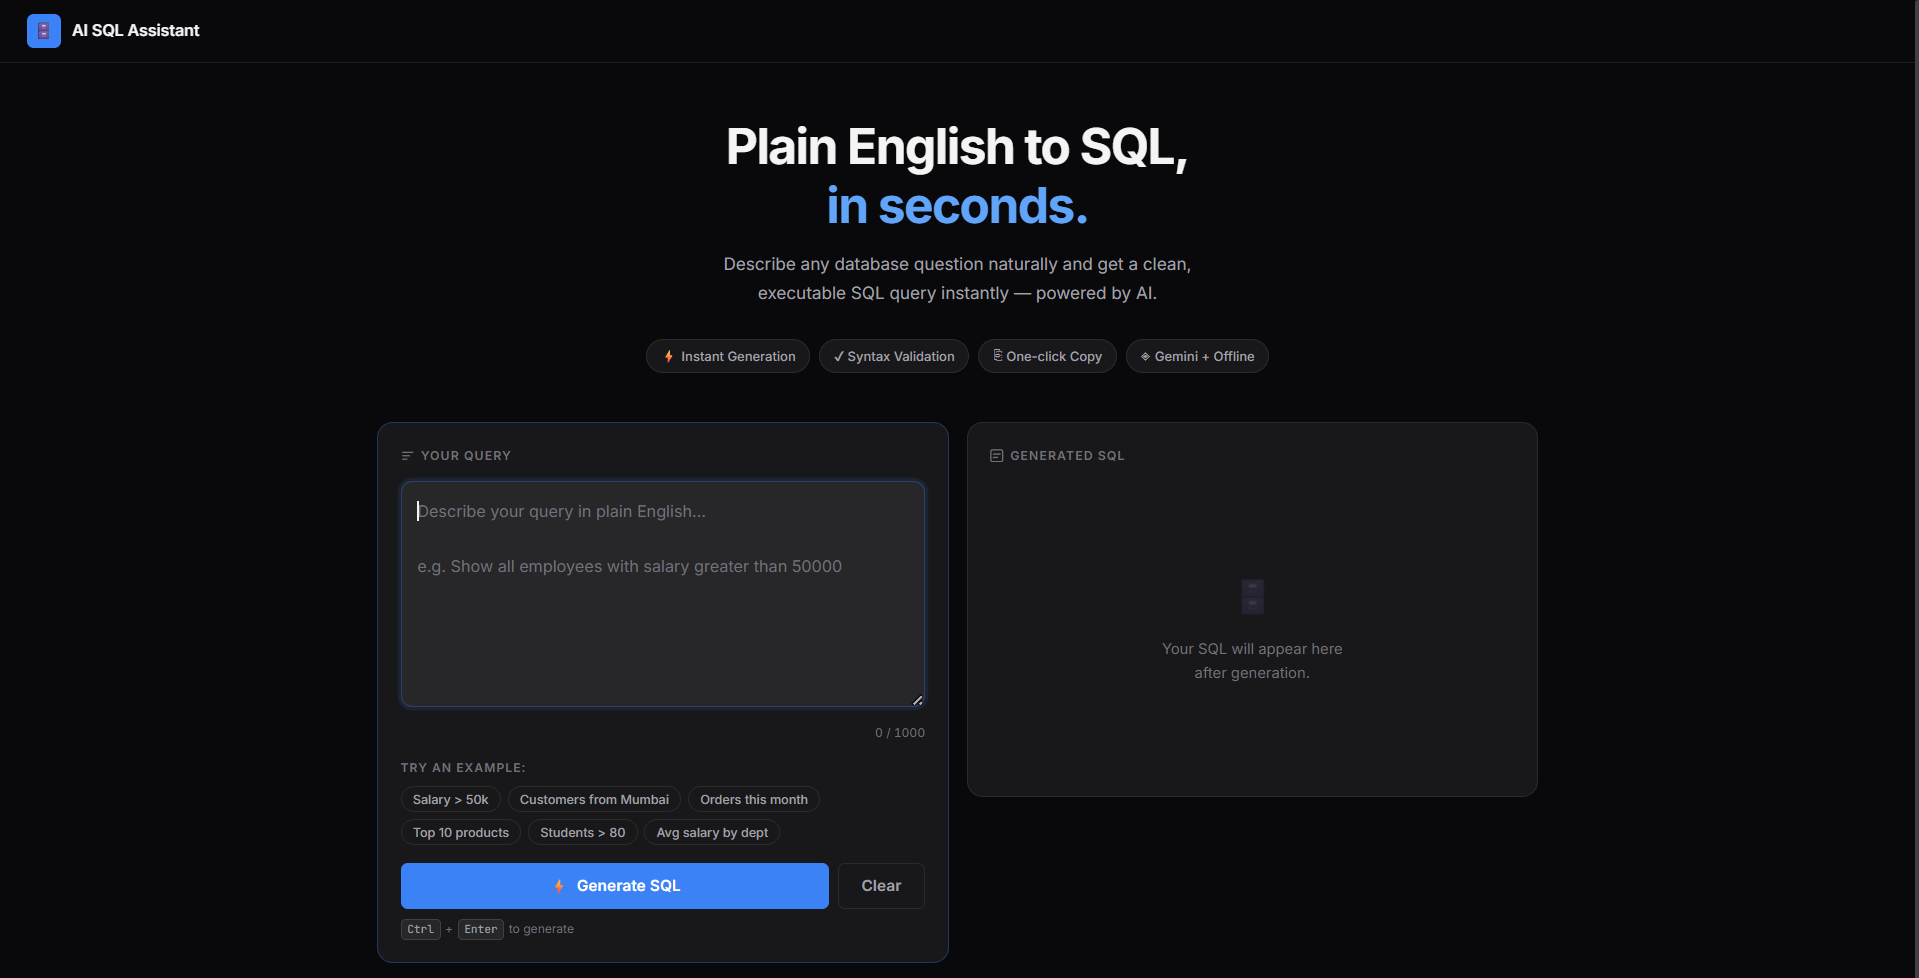
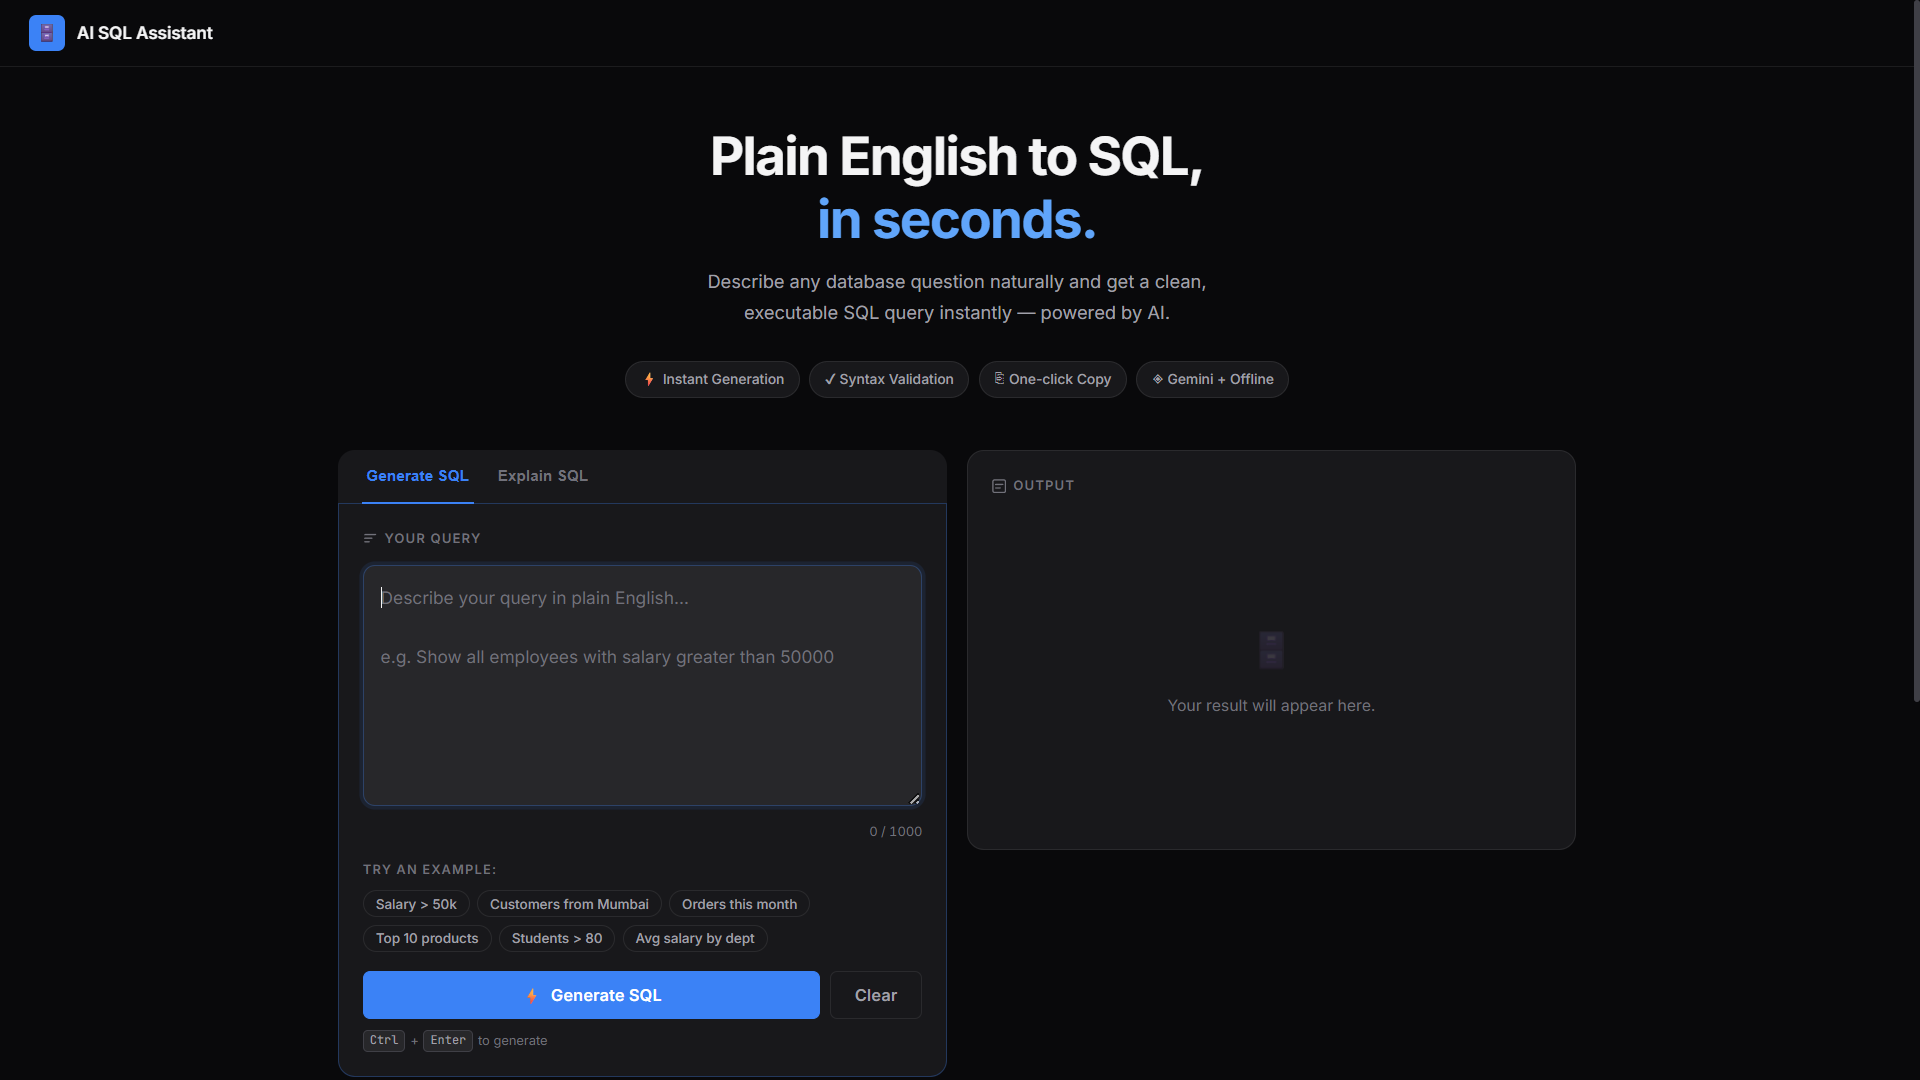
feat: migrate to LiteLLM and improve explain history tracking

diff --git a/static/script.js b/static/script.js
@@ -374,7 +374,12 @@ function HistorySection({ history, onRestore }) {
                   onClick=${() => onRestore(entry)}
                   onKeyDown=${(e) => { if (e.key === 'Enter') onRestore(entry); }}
                 >
-                  <span class="history-query" title=${entry.query}>${entry.query}</span>
+                  <span class="history-query" title=${entry.query}>
+                    <span aria-hidden="true" style=${{ marginRight: '6px', opacity: 0.7 }}>
+                      ${(!entry.type || entry.type === 'generate') ? '⚡' : '💡'}
+                    </span>
+                    ${entry.query}
+                  </span>
                   <span class="history-time">${entry.time}</span>
                 </div>
               `)}
@@ -409,8 +414,10 @@ function Workspace({ onAddHistory, restoredEntry }) {
   // Apply a restored history entry
   useEffect(() => {
     if (!restoredEntry) return;
+    setActiveTab(restoredEntry.type || 'generate');
     setQuery(restoredEntry.query);
     setSql(restoredEntry.sql);
+    setExplanation(restoredEntry.explanation || '');
     setMethod(restoredEntry.method || '');
     setError('');
     if (textareaRef.current) {
@@ -448,7 +455,7 @@ function Workspace({ onAddHistory, restoredEntry }) {
 
         setSql(newSql);
         setMethod(newMethod);
-        onAddHistory({ query: q, sql: newSql, method: newMethod });
+        onAddHistory({ query: q, sql: newSql, method: newMethod, type: activeTab });
         showToast('SQL generated successfully', 'success');
       } else {
         const res = await fetch('/explain', {
@@ -464,6 +471,7 @@ function Workspace({ onAddHistory, restoredEntry }) {
 
         setSql(q);
         setExplanation(data.explanation);
+        onAddHistory({ query: q, sql: q, method: data.method || 'llm', explanation: data.explanation, type: activeTab });
         showToast('SQL explained successfully', 'success');
       }
     } catch (err) {
@@ -660,12 +668,14 @@ function App() {
 
   const [restoredEntry, setRestoredEntry] = useState(null);
 
-  const addHistory = useCallback(({ query, sql, method }) => {
+  const addHistory = useCallback(({ query, sql, method, explanation, type }) => {
     setHistory(prev => {
       const entry = {
         query,
         sql,
         method,
+        explanation: explanation || '',
+        type: type || 'generate',
         time: new Date().toLocaleTimeString([], { hour: '2-digit', minute: '2-digit' }),
       };
       const next = [entry, ...prev].slice(0, MAX_HISTORY);

diff --git a/services/sql_generator.py b/services/sql_generator.py
@@ -20,19 +20,20 @@ Output is post-processed by SQLOutputTuner which:
 import os
 import re
 import logging
-from google import genai
-from google.genai import types
+import litellm
+
+litellm.suppress_debug_info = True
 
 logger = logging.getLogger(__name__)
 
 
 # ---------------------------------------------------------------------------
-# Gemini configuration (all tunable via environment variables)
+# LLM configuration (all tunable via environment variables)
 # ---------------------------------------------------------------------------
 
-GEMINI_MODEL       = os.getenv("GEMINI_MODEL",       "gemini-3.1-flash-lite")
-GEMINI_TEMPERATURE = float(os.getenv("GEMINI_TEMPERATURE", "0.1"))
-GEMINI_MAX_TOKENS  = int(os.getenv("GEMINI_MAX_TOKENS",    "768"))
+LLM_MODEL       = os.getenv("LLM_MODEL",       "gemini/gemini-3.1-flash-lite")
+LLM_TEMPERATURE = float(os.getenv("LLM_TEMPERATURE", "0.1"))
+LLM_MAX_TOKENS  = int(os.getenv("LLM_MAX_TOKENS",    "768"))
 
 
 # ---------------------------------------------------------------------------
@@ -219,20 +220,11 @@ _tuner = SQLOutputTuner()
 
 
 # ---------------------------------------------------------------------------
-# Gemini helper
+# LLM helper
 # ---------------------------------------------------------------------------
 
-_gemini_configured = False
-_gemini_client = None
-
-def _ensure_gemini_configured():
-    global _gemini_configured, _gemini_client
-    if not _gemini_configured:
-        api_key = os.getenv("GEMINI_API_KEY", "")
-        if not api_key:
-            raise ValueError("GEMINI_API_KEY environment variable is not set.")
-        _gemini_client = genai.Client(api_key=api_key)
-        _gemini_configured = True
+def _has_api_key():
+    return any(os.getenv(k) for k in ["GEMINI_API_KEY", "OPENAI_API_KEY", "ANTHROPIC_API_KEY"])
 
 
 _SYSTEM_PROMPT = (
@@ -261,24 +253,24 @@ _EXPLAIN_PROMPT = (
 )
 
 
-def _generate_with_gemini(natural_query: str) -> str:
+def _generate_with_llm(natural_query: str) -> str:
     """
-    Call the Gemini API to convert a natural-language query
+    Call the configured LLM API to convert a natural-language query
     into a well-formatted SQL statement.
     """
-    _ensure_gemini_configured()
+    messages = [
+        {"role": "system", "content": _SYSTEM_PROMPT},
+        {"role": "user", "content": natural_query}
+    ]
     
-    response = _gemini_client.models.generate_content(
-        model=GEMINI_MODEL,
-        contents=natural_query,
-        config=types.GenerateContentConfig(
-            system_instruction=_SYSTEM_PROMPT,
-            temperature=GEMINI_TEMPERATURE,
-            max_output_tokens=GEMINI_MAX_TOKENS,
-        ),
+    response = litellm.completion(
+        model=LLM_MODEL,
+        messages=messages,
+        temperature=LLM_TEMPERATURE,
+        max_tokens=LLM_MAX_TOKENS,
     )
     
-    raw_sql = response.text.strip()
+    raw_sql = response.choices[0].message.content.strip()
     return _tuner.tune(raw_sql)
 
 
@@ -584,14 +576,13 @@ def generate_sql(natural_query: str) -> dict:
     if not natural_query or not natural_query.strip():
         return {"error": "Query cannot be empty."}
 
-    api_key = os.getenv("GEMINI_API_KEY", "")
-    if api_key:
+    if _has_api_key():
         try:
-            sql = _generate_with_gemini(natural_query)
-            logger.info("SQL generated via Gemini.")
-            return {"sql": sql, "method": "gemini"}
+            sql = _generate_with_llm(natural_query)
+            logger.info("SQL generated via LLM.")
+            return {"sql": sql, "method": "llm"}
         except Exception as exc:
-            logger.warning("Gemini generation failed: %s. Falling back to rule-based.", exc)
+            logger.warning("LLM generation failed: %s. Falling back to rule-based.", exc)
 
     try:
         sql = _rule_gen.generate(natural_query)
@@ -603,28 +594,27 @@ def generate_sql(natural_query: str) -> dict:
 
 def explain_sql(sql: str) -> dict:
     """
-    Explain SQL using Gemini or return a generic rule-based response.
+    Explain SQL using configured LLM or return a generic rule-based response.
     """
     if not sql or not sql.strip():
         return {"error": "SQL cannot be empty."}
 
-    api_key = os.getenv("GEMINI_API_KEY", "")
-    if api_key:
+    if _has_api_key():
         try:
-            _ensure_gemini_configured()
-            response = _gemini_client.models.generate_content(
-                model=GEMINI_MODEL,
-                contents=sql,
-                config=types.GenerateContentConfig(
-                    system_instruction=_EXPLAIN_PROMPT,
-                    temperature=GEMINI_TEMPERATURE,
-                    max_output_tokens=GEMINI_MAX_TOKENS,
-                ),
+            messages = [
+                {"role": "system", "content": _EXPLAIN_PROMPT},
+                {"role": "user", "content": sql}
+            ]
+            response = litellm.completion(
+                model=LLM_MODEL,
+                messages=messages,
+                temperature=LLM_TEMPERATURE,
+                max_tokens=LLM_MAX_TOKENS,
             )
-            logger.info("SQL explained via Gemini.")
-            return {"explanation": response.text.strip(), "method": "gemini"}
+            logger.info("SQL explained via LLM.")
+            return {"explanation": response.choices[0].message.content.strip(), "method": "llm"}
         except Exception as exc:
-            logger.warning("Gemini explanation failed: %s. Falling back to rule-based.", exc)
+            logger.warning("LLM explanation failed: %s. Falling back to rule-based.", exc)
 
     logger.info("SQL explained via rule-based engine.")
     return {

diff --git a/app.py b/app.py
@@ -51,7 +51,7 @@ def generate():
     """
     POST /generate
     Body:    { "query": "<natural language query>" }
-    Returns: { "sql": "<SQL statement>", "method": "gemini|rule-based" }
+    Returns: { "sql": "<SQL statement>", "method": "llm|rule-based" }
           or { "error": "<error message>" }
     """
     try:
@@ -86,7 +86,7 @@ def explain():
     """
     POST /explain
     Body:    { "sql": "<SQL statement>" }
-    Returns: { "explanation": "<explanation string>", "method": "gemini|rule-based" }
+    Returns: { "explanation": "<explanation string>", "method": "llm|rule-based" }
           or { "error": "<error message>" }
     """
     try:

diff --git a/README.md b/README.md
@@ -6,7 +6,7 @@
 
 [![Python](https://img.shields.io/badge/Python-3.9+-blue?logo=python)](https://python.org)
 [![Flask](https://img.shields.io/badge/Flask-3.0-black?logo=flask)](https://flask.palletsprojects.com)
-[![Google Gemini](https://img.shields.io/badge/Google%20GenAI-gemini--3.1--flash--lite-blue?logo=googlegemini)](https://deepmind.google/technologies/gemini/)
+[![LiteLLM](https://img.shields.io/badge/LiteLLM-Multi--LLM-blue?logo=openai)](https://litellm.ai/)
 [![License](https://img.shields.io/badge/License-MIT-green)](LICENSE)
 
 ---
@@ -15,7 +15,7 @@
 
 | Feature | Description |
 |---|---|
-| 🤖 AI Generation | Google Gemini `gemini-3.1-flash-lite` converts English → SQL |
+| 🤖 Universal LLM Support | Powered by LiteLLM (OpenAI, Anthropic, Gemini, Groq, etc.) |
 | 💡 SQL Explanation | Breaks down complex SQL queries into plain-English steps |
 | ⚙ Offline Fallback | Rule-based engine when no API key is set |
 | 🎨 Syntax Highlighting | Color-coded SQL output |
@@ -47,11 +47,17 @@ copy .env.example .env       # Windows
 # cp .env.example .env       # macOS / Linux
 ```
 
-Open `.env` and set your key (optional — rule-based fallback works without it):
+Open `.env` and configure your preferred LLM provider:
 
 ```
-GEMINI_API_KEY=your-gemini-key-here
-GEMINI_MODEL=gemini-3.1-flash-lite      # optional; change to any supported model
+# Set the API key for your preferred provider
+GEMINI_API_KEY=your-gemini-key
+OPENAI_API_KEY=your-openai-key
+ANTHROPIC_API_KEY=your-anthropic-key
+
+# Set the LLM model to use
+LLM_MODEL=gemini/gemini-3.1-flash-lite  # or gpt-4o, claude-3-5-sonnet-20240620, etc.
+
 FLASK_DEBUG=false
 PORT=5000
 ```
@@ -95,7 +101,7 @@ AI_SQL_Assistant/
 { "query": "show all customers from Pune" }
 
 // Response
-{ "sql": "SELECT *\n    FROM customers\n    WHERE city = 'Pune';", "method": "gemini" }
+{ "sql": "SELECT *\n    FROM customers\n    WHERE city = 'Pune';", "method": "llm" }
 ```
 
 ### `POST /explain`
@@ -105,7 +111,7 @@ AI_SQL_Assistant/
 { "sql": "SELECT * FROM customers WHERE city = 'Pune';" }
 
 // Response
-{ "explanation": "This query retrieves all data from the customers table where the city is Pune.", "method": "gemini" }
+{ "explanation": "This query retrieves all data from the customers table where the city is Pune.", "method": "llm" }
 ```
 
 ### `GET /health`
@@ -132,7 +138,7 @@ Find average salary by department
 ## 🛠 Tech Stack
 
 - **Backend:** Python · Flask · Flask-CORS · python-dotenv
-- **AI:** Google GenAI SDK (`google-genai`) · Gemini `gemini-3.1-flash-lite` · NLP fallback
+- **AI Engine:** [LiteLLM](https://litellm.ai/) for universal LLM routing · NLP fallback
 - **Frontend:** React 18 (via `htm`) · Markdown Parsing (`marked.js`) · Vanilla CSS
 - **Design:** Refined dark theme · Green / Grey / Black · JetBrains Mono · Inter
 
